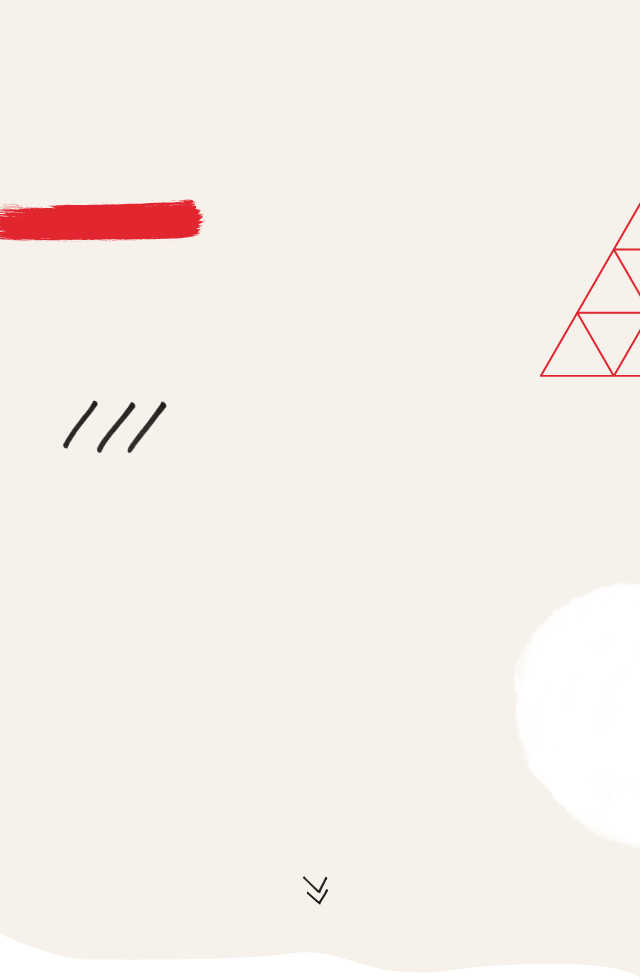
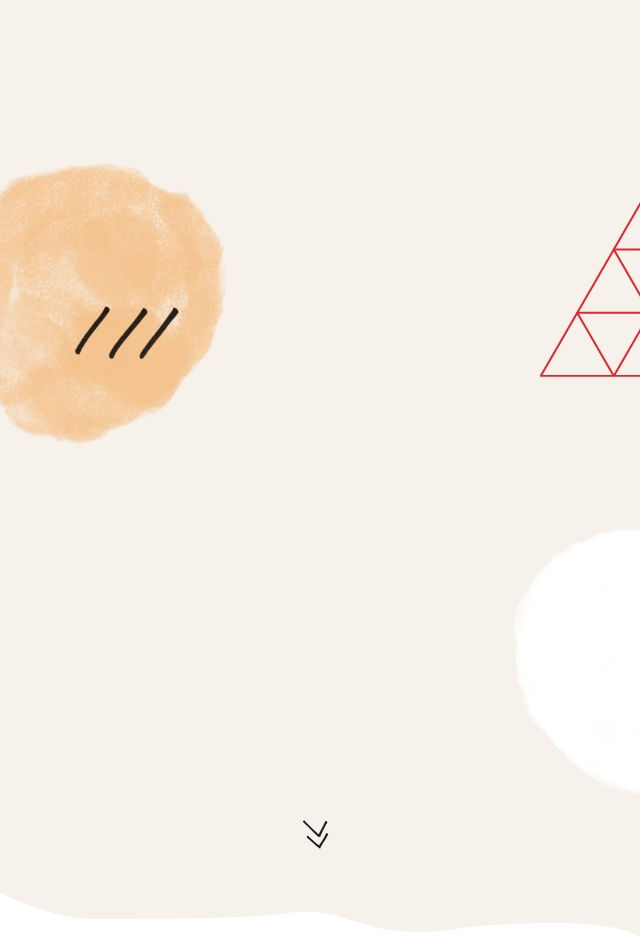
dodělávky titulky

Changed region(s): [[0.0, 0.1546, 0.375, 0.4947], [0.8438, 0.2164, 1.0, 0.4019], [0.4688, 0.8657, 0.5312, 0.9275]]

diff --git a/web/soubory/blackarrow/gchlavicka/gchlavicka.less b/web/soubory/blackarrow/gchlavicka/gchlavicka.less
@@ -7,6 +7,7 @@
         background-image: url('../blackarrow/gchlavicka/pozadi-mobil.jpg');
         margin-top: 6px;
         background-size: 100% auto;
+        height: 160vw;
     }
 }
 
@@ -25,10 +26,10 @@
 .p3 { bottom: 33%; left: 749/19.2vw; }
 .p4 { bottom: 16%; left: 933/19.2vw; }
 @media (max-width: 600px) {
-    .p1 { top:  53/3.2vw; left:  16/3.2vw; }
-    .p2 { top:  65/3.2vw; left: 151/3.2vw; }
-    .p3 { top: 138/3.2vw; left: 139/3.2vw; }
-    .p4 { top: 166/3.2vw; left: 205/3.2vw; }
+    .p1 { top:  45/3.2vw; left:  20/3.2vw; }
+    .p2 { top:  53/3.2vw; left: 131/3.2vw; }
+    .p3 { top: 126/3.2vw; left: 160/3.2vw; }
+    .p4 { top: 147/3.2vw; left: 221/3.2vw; }
 }
 
 .gchlavicka > .img1 {
@@ -37,7 +38,7 @@
     top: 53%;
     left: 8%;
     @media (max-width: 600px) {
-        top: 260/3.2vw;
+        top: 77vw;
         left: 20/3.2vw;
         width: 197/3.2vw;
     }
@@ -58,8 +59,8 @@
     left: 8%;
     @media (max-width: 600px) {
         font-size: 14/3.2vw;
-        top: 28px;
-        left: 20px;
+        top: 28/3.2vw;
+        left: 24/3.2vw;
     }
 }
 
@@ -76,7 +77,7 @@
     bottom: 31%;
     left: 65.7%;
     @media (max-width: 600px) {
-        top: 245/3.2vw;
+        top: 71.5vw;
         bottom: unset;
         left: 118.3/3.2vw;
     }
@@ -105,7 +106,7 @@
     text-decoration: none;
     color: inherit;
     @media (max-width: 600px) {
-        top: 354/3.2vw;
+        top: 91vw;
         left: 243/3.2vw;
         color: transparent; // trik na zakrytí textu
     }

diff --git a/web/soubory/blackarrow/karty/karty.less b/web/soubory/blackarrow/karty/karty.less
@@ -19,6 +19,10 @@
     box-shadow: 20rel 20rel 0 #F6F1EA;
     position: relative; // kvůli vnořeným prvkům
     background-color: #fff;
+    @media (max-width: 600px) {
+        height: 340px;
+        margin: 20px;
+    }
 }
 
 .karty_karta > img {
@@ -34,6 +38,7 @@
     font-size: 42rel;
     color: #E22630;
     width: 250rel;
+    @media (max-width: 600px) { width: 80% }
 }
 
 .karty_text {
@@ -43,4 +48,8 @@
     width: 260rel;
     font-size: 16px;
     letter-spacing: 0.035em;
+    @media (max-width: 600px) {
+        width: 80%;
+        top: 239px;
+    }
 }

diff --git a/web/soubory/blackarrow/popisbox/popisbox.less b/web/soubory/blackarrow/popisbox/popisbox.less
@@ -36,3 +36,17 @@
     color: #fff;
     text-decoration: none;
 }
+
+.popisbox_overlay {
+    position: absolute;
+    color: #e22630;
+    max-width: 0px;
+    overflow: hidden;
+    text-shadow: 0 0 5px #000; // text shadow, aby neprosvítala bílá na pozadí
+    white-space: nowrap; // aby se více slov při rozbalování nezalamovalo
+    transition: max-width 0.4s;
+}
+
+.popisbox_obsah > a:hover .popisbox_overlay {
+    max-width: 250px;
+}

diff --git a/web/soubory/blackarrow/cisla/cisla.less b/web/soubory/blackarrow/cisla/cisla.less
@@ -3,6 +3,9 @@
     justify-content: center;
     flex-wrap: wrap;
     margin: 173/19.2vw 0 1vw 0;
+    @media (max-width: 600px) {
+        margin-bottom: 10vw;
+    }
 }
 
 .cisla::before {
@@ -23,7 +26,7 @@
     @media (max-width: 600px) {
         transform: scale(0.5) !important; // important kvůli aosu na mobilu
         width: 200px;
-        margin: 0 -20px;
+        margin: -30px -20px;
     }
 }
 

diff --git a/web/soubory/blackarrow/poznamky.md b/web/soubory/blackarrow/poznamky.md
@@ -42,9 +42,10 @@
     - [ ] srovnat, jaké prvky chybí proti stávající titulce / indexu
         - (viz stará šablona a zakomentovaný kód v titulka.php)
     - [ ] (minor) prozkoumat / vyhodit old_titulka.xtpl
-    - [ ] dodělávky
+    - [x] dodělávky
         - [x] animování prvků od spodu
-        - [ ] responzivní úpravy mobil (martin dodá)
+        - [x] responzivní úpravy mobil (martin dodá)
+    - [ ] (minor) v popisboxu odkazy (např. "karetní hry") a text celkově
 
 - [ ] program
     - [x] scrollery
